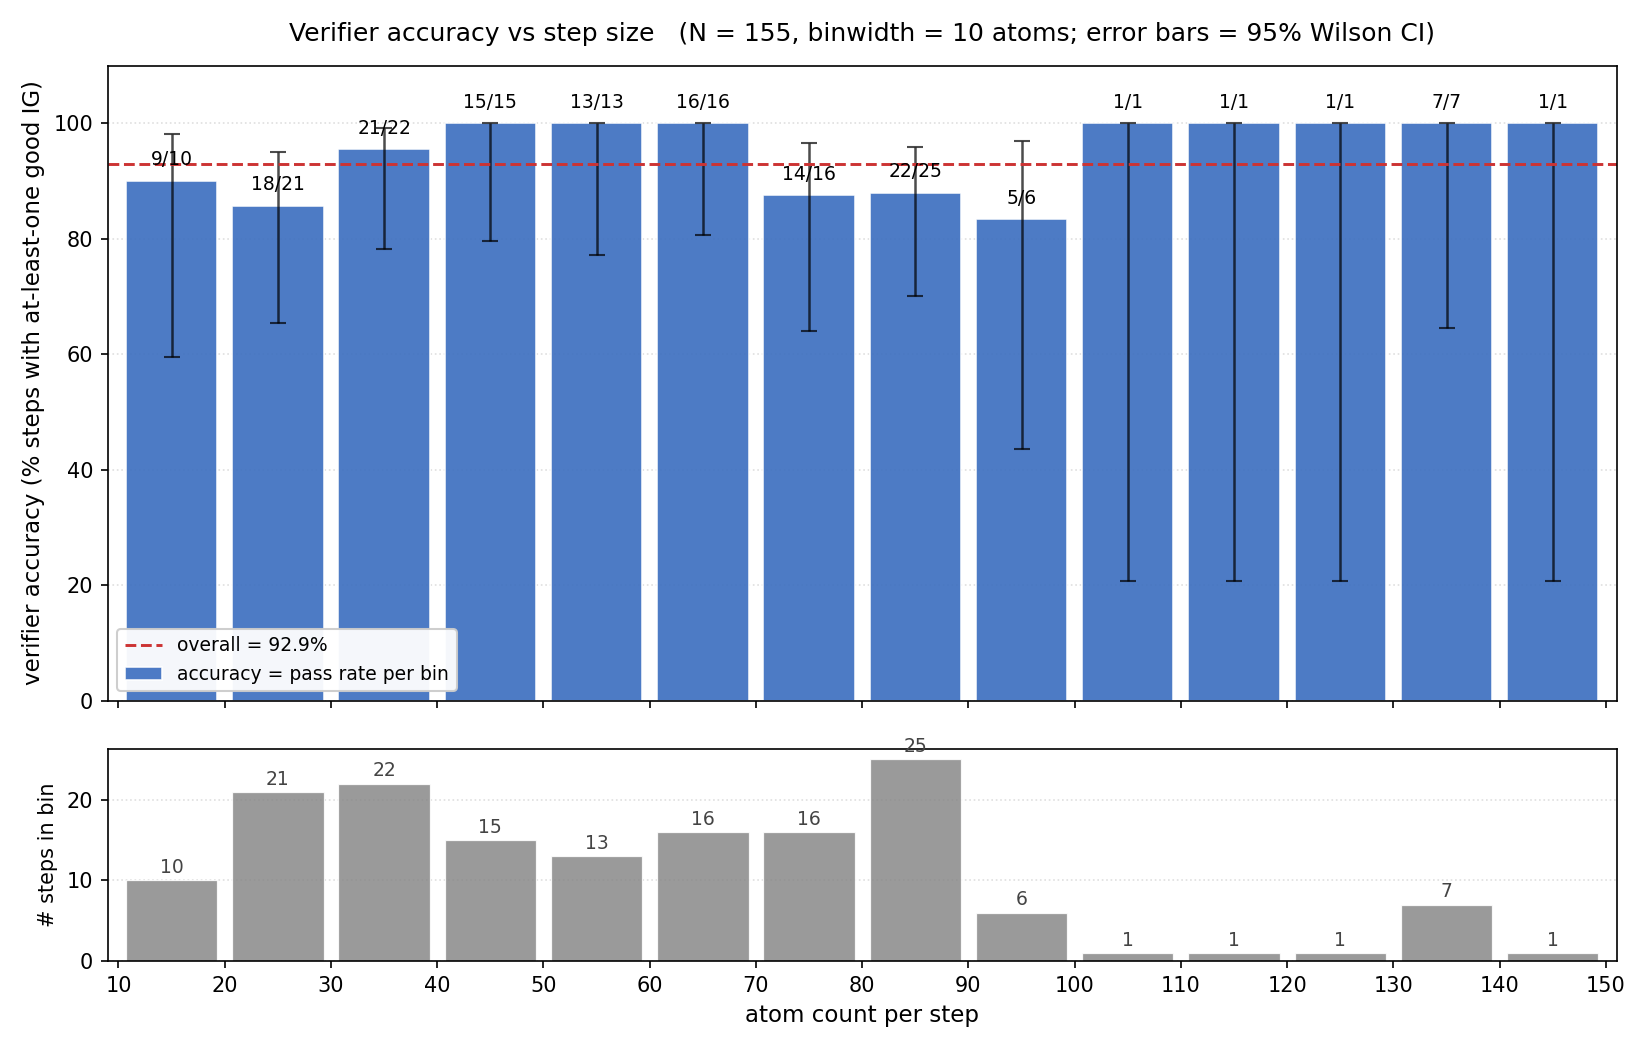
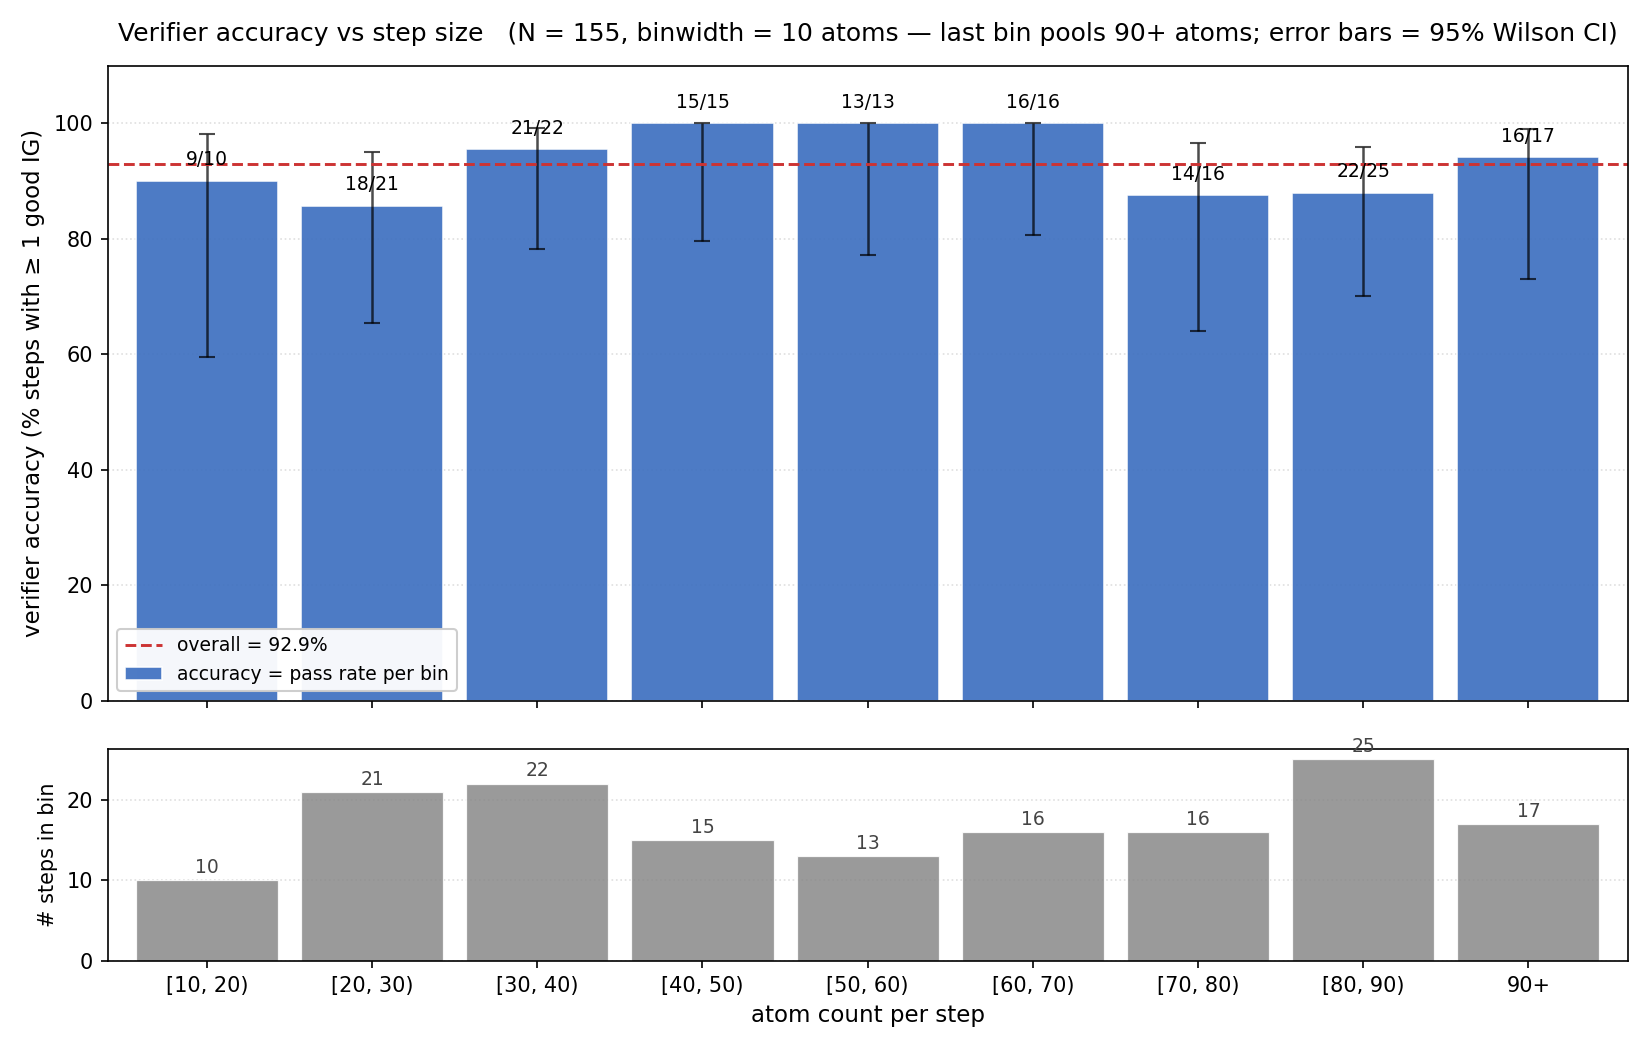
accuracy_by_atom_count: pool 90+ atom bins into a single bar
The 90-99/100-109/.../140-149 bins each had 1-7 steps (very wide CIs
that dominated the figure). Pooling them gives a meaningful 17-step
bin with rate 16/17 = 94.1% (CI [73, 99]).

Final layout:
  bin       pass / total  rate
  [10, 20)    9 / 10      90.0%
  [20, 30)   18 / 21      85.7%
  [30, 40)   21 / 22      95.5%
  [40, 50)   15 / 15     100.0%
  [50, 60)   13 / 13     100.0%
  [60, 70)   16 / 16     100.0%
  [70, 80)   14 / 16      87.5%
  [80, 90)   22 / 25      88.0%
  90+        16 / 17      94.1%
  ------------------
  overall   144 / 155     92.9%

diff --git a/analytic_scripts/figure_accuracy_by_atom_count.py b/analytic_scripts/figure_accuracy_by_atom_count.py
@@ -74,15 +74,22 @@ def main():
     p_arr = np.array([j[2] for j in joined])
     print(f"Overall pass rate: {p_arr.mean()*100:.1f}%   ({p_arr.sum()}/{len(p_arr)})")
 
-    bin_edges = np.arange(10, n_arr.max() + BINWIDTH + 1, BINWIDTH)
-    bin_centers = bin_edges[:-1] + BINWIDTH / 2
-    bin_total = np.zeros(len(bin_edges) - 1, dtype=int)
-    bin_pass  = np.zeros(len(bin_edges) - 1, dtype=int)
+    # Bins of width 10 from 10 up to 90, then a single open-ended "90+" bin.
+    fixed_edges = np.arange(10, 90 + 1, BINWIDTH)
+    bin_total = np.zeros(len(fixed_edges), dtype=int)  # last index = 90+
+    bin_pass  = np.zeros(len(fixed_edges), dtype=int)
+    bin_labels = [f"[{int(fixed_edges[i])}, {int(fixed_edges[i]+BINWIDTH)})"
+                  for i in range(len(fixed_edges) - 1)] + ['90+']
+    bin_centers = list(fixed_edges[:-1] + BINWIDTH/2) + [95]  # 90+ centered at 95
     for n, p in zip(n_arr, p_arr):
-        idx = np.searchsorted(bin_edges, n, side='right') - 1
-        idx = max(0, min(idx, len(bin_total) - 1))
+        if n >= 90:
+            idx = len(fixed_edges) - 1
+        else:
+            idx = int((n - 10) // BINWIDTH)
+            idx = max(0, min(idx, len(fixed_edges) - 2))
         bin_total[idx] += 1
         bin_pass[idx]  += int(p)
+    bin_centers = np.array(bin_centers)
 
     # 95% Wilson confidence interval per bin (small-N appropriate)
     def wilson(k, n, z=1.96):
@@ -102,39 +109,36 @@ def main():
     OUT_DIR.mkdir(parents=True, exist_ok=True)
     fig, (ax_acc, ax_n) = plt.subplots(2, 1, figsize=(11, 7),
                                          sharex=True, gridspec_kw={'height_ratios': [3, 1]})
-    # Top: accuracy bars
     bar_x = bin_centers
     bar_h = rates * 100
     nonzero = bin_total > 0
-    bars = ax_acc.bar(bar_x[nonzero], bar_h[nonzero], width=BINWIDTH * 0.86,
-                      color='#3a6dbf', edgecolor='white', linewidth=0.8, alpha=0.9,
-                      label='accuracy = pass rate per bin')
-    # Wilson CI error bars
+    ax_acc.bar(bar_x[nonzero], bar_h[nonzero], width=BINWIDTH * 0.86,
+                color='#3a6dbf', edgecolor='white', linewidth=0.8, alpha=0.9,
+                label='accuracy = pass rate per bin')
     err_lo = (rates[nonzero] - lo[nonzero]) * 100
     err_hi = (hi[nonzero] - rates[nonzero]) * 100
     ax_acc.errorbar(bar_x[nonzero], bar_h[nonzero], yerr=[err_lo, err_hi],
                      fmt='none', ecolor='black', capsize=4, lw=1.2, alpha=0.7)
-    # Label each bar with k/N
     for x, k, n_, r in zip(bar_x, bin_pass, bin_total, rates):
         if n_ > 0:
             ax_acc.text(x, r*100 + 2, f'{k}/{n_}', ha='center', va='bottom', fontsize=9)
-    # Reference line for overall accuracy
     overall = p_arr.mean() * 100
     ax_acc.axhline(overall, color='#cc3333', linestyle='--', lw=1.4,
                     label=f'overall = {overall:.1f}%')
-    ax_acc.set_ylabel('verifier accuracy (% steps with at-least-one good IG)', fontsize=11)
+    ax_acc.set_ylabel('verifier accuracy (% steps with ≥ 1 good IG)', fontsize=11)
     ax_acc.set_ylim(0, 110)
     ax_acc.set_yticks(range(0, 101, 20))
-    ax_acc.set_xticks(bin_edges)
+    ax_acc.set_xticks(bar_x)
+    ax_acc.set_xticklabels(bin_labels, fontsize=10)
     ax_acc.grid(axis='y', linestyle=':', alpha=0.4)
     ax_acc.set_axisbelow(True)
     ax_acc.legend(loc='lower left', fontsize=9, framealpha=0.95)
     ax_acc.set_title(f'Verifier accuracy vs step size   '
-                     f'(N = {len(joined)}, binwidth = {BINWIDTH} atoms; '
+                     f'(N = {len(joined)}, binwidth = {BINWIDTH} atoms — last bin pools 90+ atoms; '
                      f'error bars = 95% Wilson CI)',
                      fontsize=12, pad=12)
 
-    # Bottom: bin populations (so the reader sees small-N caveat)
+    # Bottom: bin populations
     ax_n.bar(bar_x[nonzero], bin_total[nonzero], width=BINWIDTH * 0.86,
               color='#888', edgecolor='white', linewidth=0.6, alpha=0.85)
     for x, n_ in zip(bar_x, bin_total):
@@ -142,8 +146,9 @@ def main():
             ax_n.text(x, n_ + 0.4, f'{n_}', ha='center', va='bottom', fontsize=9, color='#444')
     ax_n.set_xlabel('atom count per step', fontsize=11)
     ax_n.set_ylabel('# steps in bin', fontsize=10)
-    ax_n.set_xticks(bin_edges)
-    ax_n.set_xlim(bin_edges[0] - 1, bin_edges[-1] + 1)
+    ax_n.set_xticks(bar_x)
+    ax_n.set_xticklabels(bin_labels, fontsize=10)
+    ax_n.set_xlim(bar_x[0] - BINWIDTH/2 - 1, bar_x[-1] + BINWIDTH/2 + 1)
     ax_n.grid(axis='y', linestyle=':', alpha=0.4)
     ax_n.set_axisbelow(True)
     fig.tight_layout()
@@ -157,10 +162,10 @@ def main():
 
     # Print the table
     print(f"\n{'bin':>10s}   {'pass':>4s} / {'total':>5s}    {'rate':>5s}    {'95% CI':>16s}")
-    for i, (lo_e, hi_e) in enumerate(zip(bin_edges[:-1], bin_edges[1:])):
+    for i, lbl in enumerate(bin_labels):
         if bin_total[i] == 0: continue
-        print(f"  [{int(lo_e):>3}, {int(hi_e):>3})    {int(bin_pass[i]):>4} / {int(bin_total[i]):>5}    "
-              f"{rates[i]*100:>4.1f}%    [{lo[i]*100:>5.1f}, {hi[i]*100:>5.1f}]")
+        print(f"  {lbl:>10s}    {int(bin_pass[i]):>4} / {int(bin_total[i]):>5}    "
+              f"{rates[i]*100:>5.1f}%    [{lo[i]*100:>5.1f}, {hi[i]*100:>5.1f}]")
 
 
 if __name__ == '__main__':
